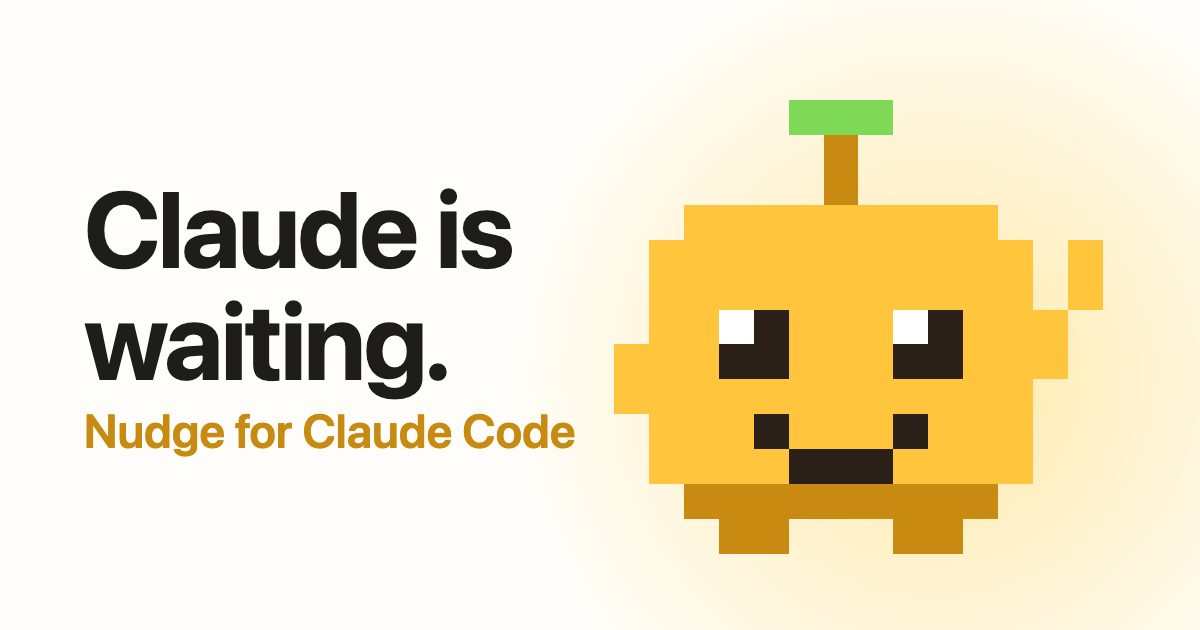
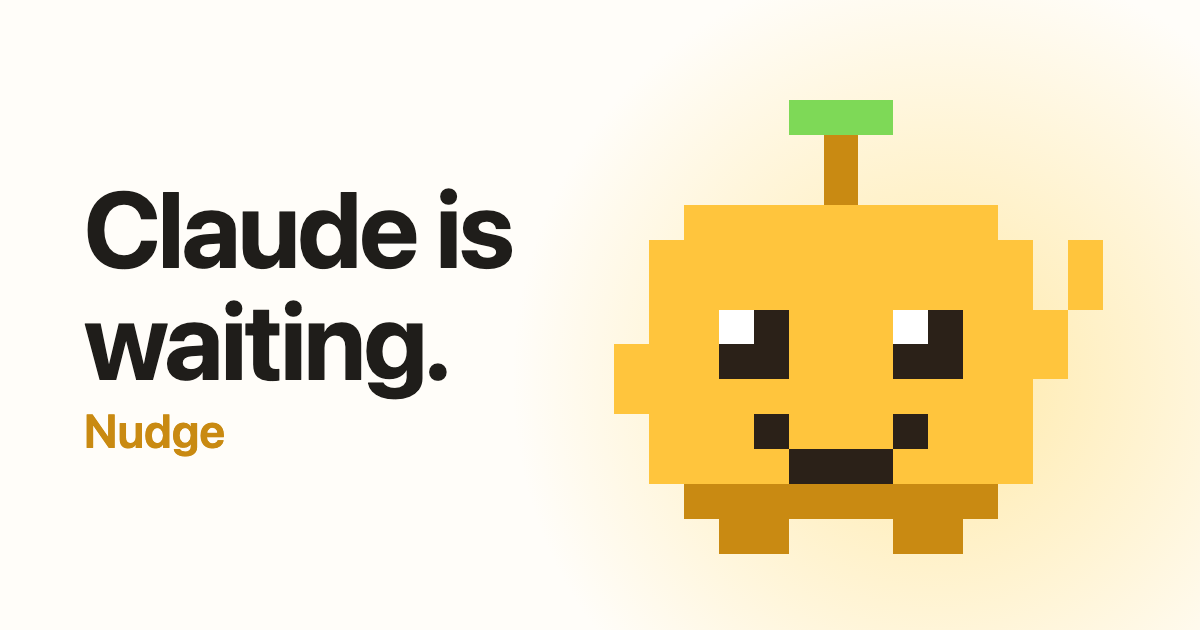
Rename to Nudge and align the pricing ladder
Anthropic's Claude Code legal page bars using the Claude Code name as part of
a product name, so "Nudge for Claude Code" becomes "Nudge", with "works with
Claude Code" kept as a plain-text descriptor. The npm package becomes
nudge-mascot and the CLI moves to bin/nudge.js. Local install paths
(~/.claude-nudge, the launchd label) are unchanged so existing installs keep
working. Regenerated og.png, demo.gif and the store stills.

Prices in monetization-plan.md and the video sources now follow
action-items.md: Pro $19 one-time, Cloud $5/mo or $48/yr including Pro,
Team $8/seat/mo with a 3-seat minimum.

Changed region(s): [[0.185, 0.6333, 0.4933, 0.7238]]

diff --git a/docs/index.html b/docs/index.html
@@ -3,9 +3,9 @@
 <head>
 <meta charset="utf-8">
 <meta name="viewport" content="width=device-width, initial-scale=1, viewport-fit=cover">
-<title>Nudge for Claude Code</title>
+<title>Nudge</title>
 <meta name="description" content="A pixel mascot waves at you in Chrome when Claude Code has a question, needs permission, or is done. Ignore it and it gets annoyed. Free, open source, local only.">
-<meta property="og:title" content="Nudge for Claude Code">
+<meta property="og:title" content="Nudge">
 <meta property="og:description" content="Claude is waiting. Nudge makes sure you know.">
 <meta property="og:image" content="https://nudge-for-claude-code.vercel.app/assets/og.png">
 <meta name="twitter:card" content="summary_large_image">
@@ -230,7 +230,7 @@
 <body>
 <div class="wrap">
   <header class="top">
-    <img src="assets/icon128.png" alt=""> Nudge for Claude Code
+    <img src="assets/icon128.png" alt=""> Nudge
     <nav>
       <a href="#escalation">Escalation</a>
       <a href="#how">How it works</a>
@@ -244,7 +244,7 @@
     <h1>Claude is waiting on you. <em>Nudge</em> makes sure you notice.</h1>
     <p class="lede">You start a task, tab over to the browser for a second, and come back ten minutes later to find Claude sitting on a question. Nudge puts a small pixel mascot on whatever tab you're reading, with the question in a bubble. <b>Ignore it and it gets annoyed.</b></p>
     <p class="pointer"><span id="pointer-text">That's Nudge in the corner. This page just pretended Claude asked you something. Keep reading and see what happens.</span><button class="link" id="bring-back" hidden>Bring Nudge back</button></p>
-    <div class="install" id="install-cmd"><span>npx nudge-for-claude-code setup</span><button type="button" id="copy-cmd">Copy</button></div>
+    <div class="install" id="install-cmd"><span>npx nudge-mascot setup</span><button type="button" id="copy-cmd">Copy</button></div>
     <div class="ctas">
       <a class="btn primary" id="store-btn" href="STORE_URL">Add to Chrome</a>
       <a class="btn" href="https://github.com/JayroldSoriano/claude-nudge">Source on GitHub</a>
@@ -301,8 +301,8 @@
 
   <section id="install">
     <h2>Install in two steps</h2>
-    <pre>npx nudge-for-claude-code setup</pre>
-    <p class="install-steps">That adds the hooks to <b>~/.claude/settings.json</b> (with a backup next to it), starts the relay, and keeps it running at login. Then add the extension from the Chrome Web Store, or load the unpacked folder it prints. Restart any running Claude Code session and run <code>npx nudge-for-claude-code test</code> to see your first nudge.</p>
+    <pre>npx nudge-mascot setup</pre>
+    <p class="install-steps">That adds the hooks to <b>~/.claude/settings.json</b> (with a backup next to it), starts the relay, and keeps it running at login. Then add the extension from the Chrome Web Store, or load the unpacked folder it prints. Restart any running Claude Code session and run <code>npx nudge-mascot test</code> to see your first nudge.</p>
     <div class="ctas">
       <a class="btn primary" id="store-btn-2" href="STORE_URL">Add to Chrome</a>
       <a class="btn" href="https://github.com/JayroldSoriano/claude-nudge#install">Manual setup</a>
@@ -328,7 +328,7 @@
 
 <!-- Intro curtain. Sits on top of the fully rendered page; the page itself never waits for it. -->
 <div class="curtain" id="curtain" aria-hidden="true">
-  <div class="mark"><b>Nudge</b><span>for Claude Code</span></div>
+  <div class="mark"><b>Nudge</b><span>works with Claude Code</span></div>
   <div class="hem"></div>
   <button type="button" class="skip" id="skip-intro">Skip</button>
 </div>
@@ -370,10 +370,10 @@
 
   // ---- Demo events. Real timings are 15/30/60s; the page uses 10/20/35s. ----
   const EVENTS = {
-    question:   { kind: 'question', title: 'Claude has a question', project: 'claude-nudge', message: 'The migration touches the users table. Run it against prod now, or do a dry run first?', options: ['Run on prod', 'Dry run first', 'Skip for now'] },
-    permission: { kind: 'permission', title: 'Claude needs permission', project: 'claude-nudge', message: 'Bash: npm publish --access public' },
-    done:       { kind: 'done', title: 'Claude is done', project: 'claude-nudge', message: 'Renamed the package, added the MIT license, and wrote the installer. All 14 tests pass. Ready to push when you are.', auto: 20 },
-    idle:       { kind: 'idle', title: 'Claude is waiting', project: 'claude-nudge', message: 'No task running. Claude has been idle for a minute.', auto: 20 },
+    question:   { kind: 'question', title: 'Claude has a question', project: 'nudge', message: 'The migration touches the users table. Run it against prod now, or do a dry run first?', options: ['Run on prod', 'Dry run first', 'Skip for now'] },
+    permission: { kind: 'permission', title: 'Claude needs permission', project: 'nudge', message: 'Bash: npm publish --access public' },
+    done:       { kind: 'done', title: 'Claude is done', project: 'nudge', message: 'Renamed the package, added the MIT license, and wrote the installer. All 14 tests pass. Ready to push when you are.', auto: 20 },
+    idle:       { kind: 'idle', title: 'Claude is waiting', project: 'nudge', message: 'No task running. Claude has been idle for a minute.', auto: 20 },
   };
   const STEPS = [0, 10, 20, 35]; // seconds on this page
   const fmt = (s) => `${Math.floor(s / 60)}:${String(s % 60).padStart(2, '0')}`;
@@ -510,7 +510,7 @@
   document.addEventListener('keydown', (e) => { if (e.key === 'Escape' && current) dismiss(); });
   soundBox.addEventListener('change', () => { if (soundBox.checked) blip('question'); });
 
-  const cmd = 'npx nudge-for-claude-code setup';
+  const cmd = 'npx nudge-mascot setup';
   document.getElementById('copy-cmd').addEventListener('click', (e) => {
     const btn = e.currentTarget;
     const ok = () => { btn.textContent = 'Copied'; setTimeout(() => (btn.textContent = 'Copy'), 1600); };

diff --git a/bin/nudge.js b/bin/nudge.js
@@ -1,10 +1,10 @@
 #!/usr/bin/env node
-// Nudge for Claude Code CLI.
-//   npx nudge-for-claude-code setup      install hooks, relay, launch agent; print the extension step
-//   npx nudge-for-claude-code start      run the relay in the foreground
-//   npx nudge-for-claude-code status     relay health + hook status
-//   npx nudge-for-claude-code test [kind] send a test nudge (question | permission | done | resolved)
-//   npx nudge-for-claude-code uninstall  remove hooks, launch agent, and ~/.claude-nudge
+// Nudge CLI.
+//   npx nudge-mascot setup      install hooks, relay, launch agent; print the extension step
+//   npx nudge-mascot start      run the relay in the foreground
+//   npx nudge-mascot status     relay health + hook status
+//   npx nudge-mascot test [kind] send a test nudge (question | permission | done | resolved)
+//   npx nudge-mascot uninstall  remove hooks, launch agent, and ~/.claude-nudge
 'use strict';
 const fs = require('fs');
 const os = require('os');
@@ -104,7 +104,7 @@ function installService() {
     try {
       fs.mkdirSync(path.dirname(SYSTEMD_UNIT), { recursive: true });
       fs.writeFileSync(SYSTEMD_UNIT, `[Unit]
-Description=Nudge for Claude Code relay
+Description=Nudge relay
 
 [Service]
 ExecStart=${node} ${RELAY}
@@ -122,7 +122,7 @@ WantedBy=default.target
   // Fallback: detached background process for this session only.
   const child = spawn(node, [RELAY], { detached: true, stdio: 'ignore', env: { ...process.env, CLAUDE_NUDGE_PORT: String(PORT) } });
   child.unref();
-  return 'background process (re-run `npx nudge-for-claude-code start` after a reboot)';
+  return 'background process (re-run `npx nudge-mascot start` after a reboot)';
 }
 
 function removeService() {
@@ -158,7 +158,7 @@ function waitForHealth(tries = 20) {
 }
 
 async function setup() {
-  log('\nNudge for Claude Code · setup\n');
+  log('\nNudge · setup\n');
   fs.mkdirSync(INSTALL_DIR, { recursive: true });
   copyDir(path.join(PKG, 'relay'), path.join(INSTALL_DIR, 'relay'));
   copyDir(path.join(PKG, 'extension'), path.join(INSTALL_DIR, 'extension'));
@@ -172,7 +172,7 @@ async function setup() {
   const how = installService();
   const h = await waitForHealth();
   if (h) ok(`relay running on 127.0.0.1:${h.port} (${how})`);
-  else warn(`relay did not answer on port ${PORT}; try: npx nudge-for-claude-code start`);
+  else warn(`relay did not answer on port ${PORT}; try: npx nudge-mascot start`);
 
   log('\nLast step: install the extension.');
   if (STORE_URL) log(`  ${STORE_URL}`);
@@ -180,7 +180,7 @@ async function setup() {
     log('  1. Open chrome://extensions and turn on Developer mode.');
     log(`  2. Click "Load unpacked" and pick: ${path.join(INSTALL_DIR, 'extension')}`);
   }
-  log('\nThen restart any running Claude Code session and run: npx nudge-for-claude-code test\n');
+  log('\nThen restart any running Claude Code session and run: npx nudge-mascot test\n');
 }
 
 async function status() {
@@ -190,7 +190,7 @@ async function status() {
   const s = readSettings();
   const present = Object.keys(HOOKS).filter((e) => (s.hooks && s.hooks[e] || []).some((g) => (g.hooks || []).some((hk) => /nudge-hook\.sh$/.test(hk.command || ''))));
   if (present.length === Object.keys(HOOKS).length) ok(`hooks installed (${present.join(', ')})`);
-  else warn(`hooks missing: ${Object.keys(HOOKS).filter((e) => !present.includes(e)).join(', ') || 'none'}; run: npx nudge-for-claude-code setup`);
+  else warn(`hooks missing: ${Object.keys(HOOKS).filter((e) => !present.includes(e)).join(', ') || 'none'}; run: npx nudge-mascot setup`);
   if (h && h.clients === 0) warn('no extension connected: load it from chrome://extensions and click its Reload icon');
 }
 
@@ -199,7 +199,7 @@ function test(kind = 'question') {
     const req = http.request({ host: '127.0.0.1', port: PORT, path: `/test?kind=${encodeURIComponent(kind)}`, method: 'POST' }, (res) => {
       let b = ''; res.on('data', (c) => (b += c)); res.on('end', () => { log(res.statusCode === 200 ? `  ✓ sent a "${kind}" nudge` : `  ! ${b}`); resolve(); });
     });
-    req.on('error', () => { warn(`relay not reachable on port ${PORT}; run: npx nudge-for-claude-code setup`); resolve(); });
+    req.on('error', () => { warn(`relay not reachable on port ${PORT}; run: npx nudge-mascot setup`); resolve(); });
     req.end();
   });
 }
@@ -220,11 +220,11 @@ const cmd = process.argv[2] || 'help';
 ({
   setup, start, status, uninstall,
   test: () => test(process.argv[3]),
-  help: () => log(`Nudge for Claude Code
+  help: () => log(`Nudge
 
-  npx nudge-for-claude-code setup        install hooks + relay, then load the extension
-  npx nudge-for-claude-code start        run the relay in the foreground
-  npx nudge-for-claude-code status       relay health and hook status
-  npx nudge-for-claude-code test [kind]  question | permission | done | resolved
-  npx nudge-for-claude-code uninstall    remove everything this tool installed`),
+  npx nudge-mascot setup        install hooks + relay, then load the extension
+  npx nudge-mascot start        run the relay in the foreground
+  npx nudge-mascot status       relay health and hook status
+  npx nudge-mascot test [kind]  question | permission | done | resolved
+  npx nudge-mascot uninstall    remove everything this tool installed`),
 }[cmd] || (() => { log(`unknown command: ${cmd}`); process.exit(1); }))();

diff --git a/extension/welcome.html b/extension/welcome.html
@@ -3,7 +3,7 @@
 <head>
 <meta charset="utf-8">
 <meta name="viewport" content="width=device-width, initial-scale=1">
-<title>Set up Nudge for Claude Code</title>
+<title>Set up Nudge</title>
 <style>
   :root { --body: #FFC53D; --ink: #1f1d1a; --muted: #7a6a5a; --cream: #fffdf9; --paper: #f1e9df; --line: #e4d9cb; --ok: #2e8b57; }
   * { box-sizing: border-box; }
@@ -46,7 +46,7 @@
       <div class="n">1</div>
       <div>
         <h2>Run this once in your terminal</h2>
-        <div class="cmd"><code id="cmd">npx nudge-for-claude-code setup</code><button id="copy" type="button">Copy</button></div>
+        <div class="cmd"><code id="cmd">npx nudge-mascot setup</code><button id="copy" type="button">Copy</button></div>
         <p class="muted">It adds the Claude Code hooks to <code>~/.claude/settings.json</code> (with a backup) and starts a tiny relay on 127.0.0.1 that keeps running at login. Needs Node 18 or newer. This page updates on its own when the relay is running.</p>
       </div>
     </li>
@@ -61,7 +61,7 @@
       <div class="n">3</div>
       <div>
         <h2>Send a test nudge</h2>
-        <div class="cmd"><code id="cmd-test">npx nudge-for-claude-code test</code><button id="copy-test" type="button">Copy</button></div>
+        <div class="cmd"><code id="cmd-test">npx nudge-mascot test</code><button id="copy-test" type="button">Copy</button></div>
         <p class="muted">Then switch to any website tab. Nudge waves in the corner. Settings live in the toolbar popup.</p>
       </div>
     </li>

diff --git a/scripts/make-assets.js b/scripts/make-assets.js
@@ -43,7 +43,7 @@ function scene({ w, h, event, timeline, caption, scroll = 0, endCard = false, bi
   <div class="bar"><div class="pill"></div><b>feed</b><div class="search"></div></div>
   <div class="feed">${cards}</div>
   ${caption ? `<div class="caption">${caption}</div>` : ''}
-  ${endCard ? `<div class="end"><img src="file://${path.join(ROOT, 'extension', 'icons', 'icon128.png')}" width="96" height="96" style="image-rendering:pixelated"><h1>Nudge for Claude Code</h1><code>npx nudge-for-claude-code setup</code><p>Free · open source · local only</p></div>` : ''}
+  ${endCard ? `<div class="end"><img src="file://${path.join(ROOT, 'extension', 'icons', 'icon128.png')}" width="96" height="96" style="image-rendering:pixelated"><h1>Nudge</h1><code>npx nudge-mascot setup</code><p>Free · open source · local only</p></div>` : ''}
   <script>
     window.chrome = { runtime: { onMessage: { addListener(fn) { window.__l = fn; } }, sendMessage() { return Promise.resolve(); } } };
   </script>
@@ -142,7 +142,7 @@ if (!only || only === 'stills') {
     .m .arm-out { opacity: 1; }
     #claude-nudge-host { display: none; }
   </style></head><body>
-  <div class="t"><h1>Claude is<br>waiting.</h1><p>Nudge for Claude Code</p></div>
+  <div class="t"><h1>Claude is<br>waiting.</h1><p>Nudge</p></div>
   <div class="m" id="m"></div>
   <script>window.chrome = { runtime: { onMessage: { addListener() {} }, sendMessage() { return Promise.resolve(); } } };</script>
   <script>${CONTENT_JS}</script>

diff --git a/relay/server.js b/relay/server.js
@@ -1,6 +1,6 @@
 #!/usr/bin/env node
 'use strict';
-// claude-nudge relay: receives Claude Code hook payloads over HTTP (from hooks/nudge-hook.sh)
+// Nudge relay: receives Claude Code hook payloads over HTTP (from hooks/nudge-hook.sh)
 // and pushes normalized events to the Chrome extension over a WebSocket.
 // Zero dependencies. Binds to 127.0.0.1 only.
 
@@ -264,7 +264,7 @@ setInterval(() => {
 }, PING_INTERVAL_MS).unref();
 
 function log(msg) {
-  console.log(`[claude-nudge ${new Date().toLocaleTimeString()}] ${msg}`);
+  console.log(`[nudge ${new Date().toLocaleTimeString()}] ${msg}`);
 }
 
 server.listen(PORT, HOST, () => {
@@ -280,10 +280,10 @@ server.on('error', (err) => {
         let ours = false;
         try { ours = JSON.parse(body).ok === true; } catch (_) {}
         if (ours) { log(`another relay is already running on port ${PORT}; exiting`); process.exit(0); }
-        console.error(`[claude-nudge] port ${PORT} is in use by something else. Set CLAUDE_NUDGE_PORT to change it.`);
+        console.error(`[nudge] port ${PORT} is in use by something else. Set CLAUDE_NUDGE_PORT to change it.`);
         process.exit(1);
       });
-    }).on('error', () => { console.error(`[claude-nudge] port ${PORT} is in use. Set CLAUDE_NUDGE_PORT to change it.`); process.exit(1); });
+    }).on('error', () => { console.error(`[nudge] port ${PORT} is in use. Set CLAUDE_NUDGE_PORT to change it.`); process.exit(1); });
     return;
   }
   throw err;

diff --git a/extension/popup.html b/extension/popup.html
@@ -2,7 +2,7 @@
 <html>
 <head>
 <meta charset="utf-8">
-<title>Nudge for Claude Code</title>
+<title>Nudge</title>
 <style>
   body { width: 300px; margin: 0; padding: 14px; font: 13px/1.45 -apple-system, BlinkMacSystemFont, "Segoe UI", sans-serif; color: #1f1d1a; background: #fffdf9; }
   h1 { font-size: 15px; margin: 0 0 10px; display: flex; align-items: center; gap: 8px; }
@@ -56,7 +56,7 @@
   </div>
 
   <div class="recent"><h2>Recent</h2><div id="recent"></div></div>
-  <div class="help" id="help" hidden>Relay not reachable. Start it with <code>npx nudge-for-claude-code setup</code>. <a href="welcome.html" target="_blank">Setup guide</a></div>
+  <div class="help" id="help" hidden>Relay not reachable. Start it with <code>npx nudge-mascot setup</code>. <a href="welcome.html" target="_blank">Setup guide</a></div>
   <div class="footer"><a href="https://github.com/JayroldSoriano/claude-nudge" target="_blank">GitHub</a> · <a href="https://github.com/sponsors/JayroldSoriano" target="_blank">Sponsor</a> · <a href="https://nudge-for-claude-code.vercel.app/privacy" target="_blank">Privacy</a></div>
   <script src="popup.js"></script>
 </body>

diff --git a/extension/background.js b/extension/background.js
@@ -1,4 +1,4 @@
-// Nudge for Claude Code service worker: keeps a WebSocket to the local relay and forwards
+// Nudge service worker: keeps a WebSocket to the local relay and forwards
 // events to the content script on the tab the user is looking at.
 
 const DEFAULTS = {
@@ -292,7 +292,7 @@ chrome.runtime.onMessage.addListener((msg, _sender, sendResponse) => {
   }
   if (msg && msg.type === 'previewNudge') {
     getSettings().then((settings) => handleEvent({
-      id: Date.now(), ts: Date.now(), kind: 'question', title: 'Claude has a question', project: 'claude-nudge',
+      id: Date.now(), ts: Date.now(), kind: 'question', title: 'Claude has a question', project: 'nudge',
       message: 'Preview nudge. Should I keep the sessions table or move auth to JWT?',
       options: [{ header: 'Approach', choices: ['Keep sessions', 'Move to JWT'] }],
     })).then(() => sendResponse({ ok: true }));

diff --git a/docs/privacy.html b/docs/privacy.html
@@ -3,7 +3,7 @@
 <head>
 <meta charset="utf-8">
 <meta name="viewport" content="width=device-width, initial-scale=1">
-<title>Privacy Policy · Nudge for Claude Code</title>
+<title>Privacy Policy · Nudge</title>
 <style>
   body { max-width: 720px; margin: 40px auto; padding: 0 20px; font: 16px/1.6 -apple-system, BlinkMacSystemFont, "Segoe UI", sans-serif; color: #1f1d1a; background: #fffdf9; }
   h1 { font-size: 28px; } h2 { font-size: 20px; margin-top: 32px; }
@@ -13,7 +13,7 @@
 </head>
 <body>
 <h1>Privacy Policy</h1>
-<p><strong>Nudge for Claude Code</strong> (the Chrome extension and its local relay). Last updated 2026-10-29.</p>
+<p><strong>Nudge</strong> (the Chrome extension and its local relay). Last updated 2026-10-30.</p>
 
 <h2>Summary</h2>
 <p>Everything stays on your computer. The extension has no accounts, no analytics, no remote servers, and sends nothing over the internet.</p>

diff --git a/extension/content.js b/extension/content.js
@@ -1,4 +1,4 @@
-// Nudge for Claude Code content script: renders Nudge, a pixel mascot that waves, with a speech bubble
+// Nudge content script: renders Nudge, a pixel mascot that waves, with a speech bubble
 // carrying Claude Code's question or final message. Lives in a closed shadow root so page CSS can't touch it.
 //
 // Escalation levels (driven by the service worker, only for questions/permissions):

diff --git a/scripts/install-hooks.js b/scripts/install-hooks.js
@@ -1,3 +1,3 @@
 #!/usr/bin/env node
 // Kept for compatibility: the installer now lives in the CLI.
-require('child_process').execFileSync(process.execPath, [require('path').join(__dirname, '..', 'bin', 'claude-nudge.js'), 'setup'], { stdio: 'inherit' });
+require('child_process').execFileSync(process.execPath, [require('path').join(__dirname, '..', 'bin', 'nudge.js'), 'setup'], { stdio: 'inherit' });

diff --git a/README.md b/README.md
@@ -1,7 +1,7 @@
 <p align="center">
   <img src="extension/icons/icon128.png" width="96" height="96" alt="Nudge" style="image-rendering: pixelated">
 </p>
-<h1 align="center">Nudge for Claude Code</h1>
+<h1 align="center">Nudge</h1>
 <p align="center">
   A pixel mascot waves at you in Chrome when Claude Code has a question, needs permission, or is done.<br>
   Ignore it and it gets annoyed. Free, open source, local only.
@@ -26,7 +26,7 @@ Claude Code hook ──curl──▶ relay on 127.0.0.1 ──WebSocket──▶
 ## Install
 
 ```sh
-npx nudge-for-claude-code setup
+npx nudge-mascot setup
 ```
 
 That copies the relay and hook into `~/.claude-nudge/`, adds the hooks to `~/.claude/settings.json`
@@ -38,10 +38,10 @@ and pick `~/.claude-nudge/extension` (Chrome Web Store listing coming). Restart 
 session and run:
 
 ```sh
-npx nudge-for-claude-code test            # a question
-npx nudge-for-claude-code test done       # done / permission / resolved
-npx nudge-for-claude-code status          # relay health + hook check
-npx nudge-for-claude-code uninstall       # removes everything it installed
+npx nudge-mascot test            # a question
+npx nudge-mascot test done       # done / permission / resolved
+npx nudge-mascot status          # relay health + hook check
+npx nudge-mascot uninstall       # removes everything it installed
 ```
 
 Requires Node 18+ and Chrome 116+.
@@ -98,7 +98,7 @@ Full policy: [privacy.html](https://nudge-for-claude-code.vercel.app/privacy).
 
 | Path | What it is |
 | --- | --- |
-| `bin/claude-nudge.js` | The CLI: `setup`, `start`, `status`, `test`, `uninstall`. |
+| `bin/nudge.js` | The CLI: `setup`, `start`, `status`, `test`, `uninstall`. |
 | `hooks/nudge-hook.sh` | Claude Code hook. Forwards the hook's JSON to the relay with curl. Fire-and-forget, 2s timeout, never blocks Claude. |
 | `relay/server.js` | Zero-dependency Node relay with its own minimal WebSocket server. Normalizes `Stop`, `Notification`, `AskUserQuestion`, `PostToolUse`, `UserPromptSubmit`. |
 | `extension/` | Chrome extension (Manifest V3): service worker holds the WebSocket and the escalation clock; content script draws the mascot in a closed shadow root; popup has settings. |
@@ -111,10 +111,10 @@ Full policy: [privacy.html](https://nudge-for-claude-code.vercel.app/privacy).
 
 ```sh
 git clone https://github.com/JayroldSoriano/claude-nudge && cd claude-nudge
-node bin/claude-nudge.js setup     # same as npx, from the checkout
+node bin/nudge.js setup            # same as npx, from the checkout
 npm run icons                      # regenerate extension/icons
 npm run assets                     # demo.gif, mp4s, store screenshots (needs Chrome + ffmpeg)
-npm run pack                       # dist/nudge-for-claude-code-<version>.zip
+npm run pack                       # dist/nudge-<version>.zip
 curl -s http://127.0.0.1:47831/health
 ```
 
